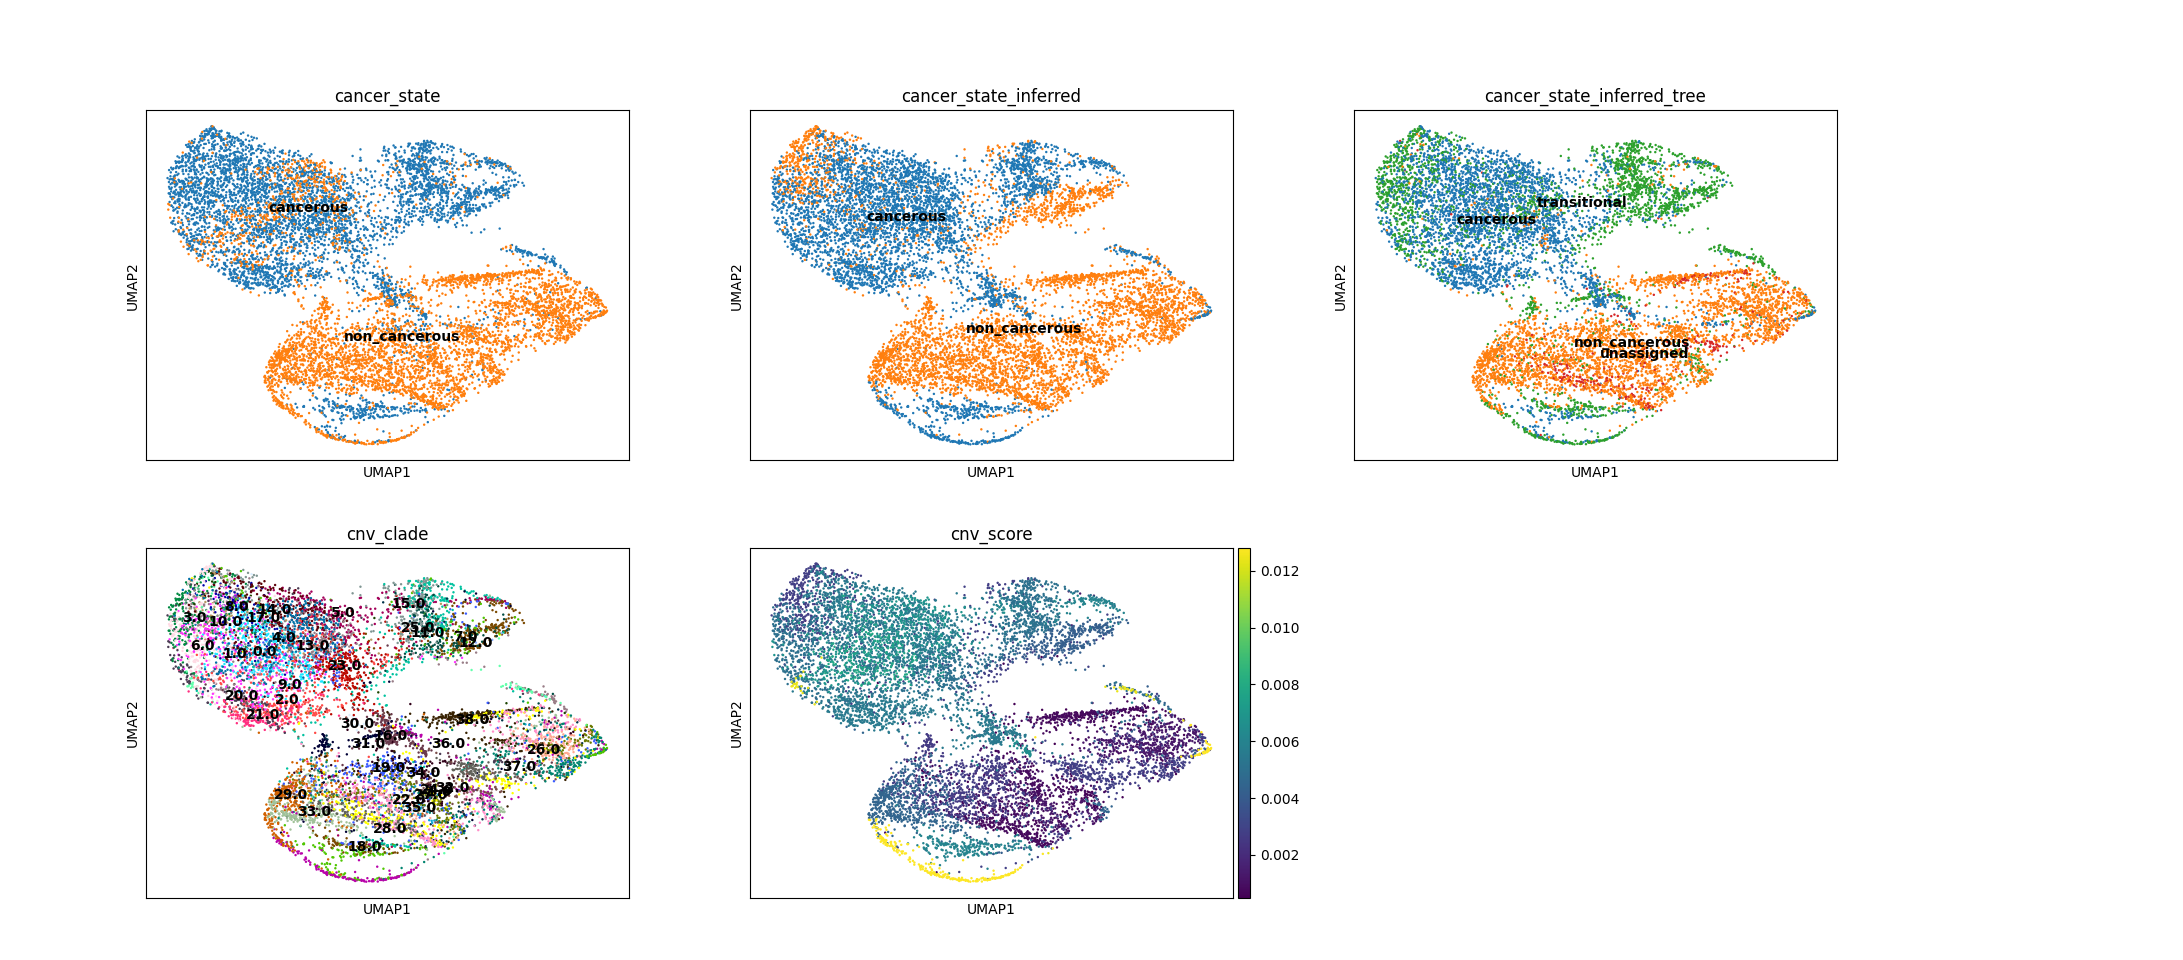
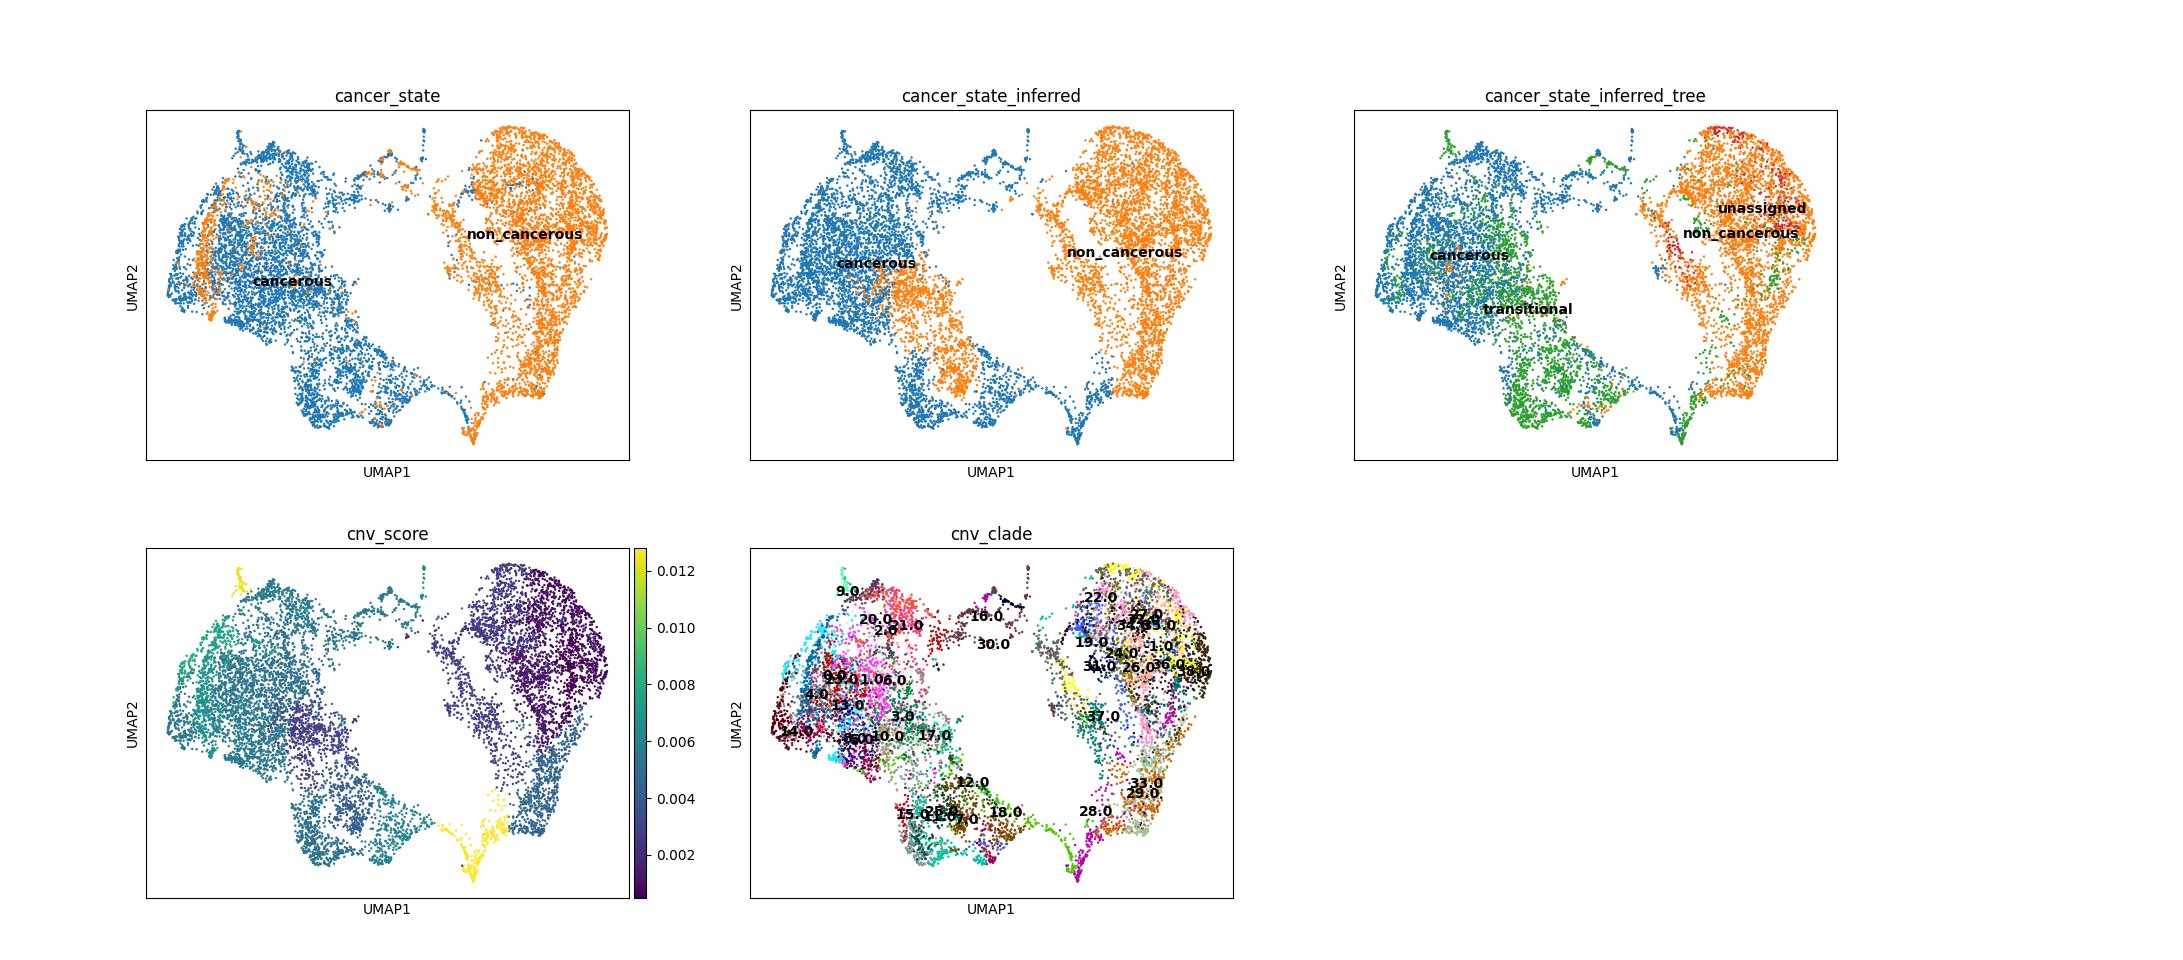
added more plots for run3 + DEG analysis on high cnv cluster in nc cells

diff --git a/analysis_scripts/OG_PDAC/Plotting.py b/analysis_scripts/OG_PDAC/Plotting.py
@@ -165,7 +165,7 @@ def plot_projection_and_DEGs(adata, layer):
     internal_adata = matrix_to_anndata(adata, layer)
 
     # normalize temp adata and store result in according field in internal adata 
-    if not hf.is_normalized(internal_adata) and layer != "X_cnv": # X_cnv is log normalized, so this check does not work (special case)
+    if not hf.is_normalized(internal_adata) and "_cnv" not in layer: # X_cnv is log normalized, so this check does not work (special case)
         vprint("normalizing data...")
         sc.pp.normalize_total(internal_adata, target_sum=1e4)
     else:
@@ -188,24 +188,34 @@ def plot_projection_and_DEGs(adata, layer):
     
     # quality checks before plotting
     vprint("quality checks before plotting...")
-    """if "cell_type" in colored_by and cell_type is not None:
-        colored_by.remove("cell_type")
-        vprint(f"{cell_type} cells are isolated, removing \"cell_type\" from colored_by list")"""
+    allowed = ( # list of all valid annotation options
+    list(internal_adata.obs.keys())
+    + list(internal_adata.var.get("gene_symbols", [])) # the [] option returns an empty list of the key does not exist
+    + list(internal_adata.var.get("gene_ids", []))
+    + list(internal_adata.var_names)
+    )
     for entry in colored_by:
-        if entry not in internal_adata.obs.keys():
+        if entry not in allowed: # color by option must either be an obs column or a gene (to color cells by expression level of that gene)
             colored_by.remove(entry)
-            vprint(f"{entry} is not in adata.obs, removing it from colored_by list")
+            vprint(f"{entry} is not in a valid annotation option, removing it from colored_by list")
 
+    # move used varname representation to internal_adata.var_names (UMAP cannot acces adata.var columns for coloring)
+    if any(entry in list(internal_adata.var.get("gene_symbols", [])) for entry in colored_by):
+        vprint("setting var_names to gene_symbols for projection plot coloring...")
+        internal_adata.var_names = list(internal_adata.var["gene_symbols"])
+    elif any(entry in list(internal_adata.var.get("gene_ids", [])) for entry in colored_by):
+        vprint("setting var_names to gene_ids for projection plot coloring...")
+        internal_adata.var_names = list(internal_adata.var["gene_ids"])
     
     # determine suitable number of columns for figure (rougly 1.5 times as many columns as rows)
     n_cols = np.round(np.sqrt(len(colored_by)*1.5)).astype(int) 
 
     # make sure annotatins with categories are colored by category and not continuous values
     for entry in colored_by:
-        if len(internal_adata.obs[entry].unique()) <= 20 or entry == "cnv_clade": # cnv clade yields continuous spectrum prbly bcs it has numpy floats
-            vprint(f"turning {entry} into categorical, unique values: {len(internal_adata.obs[entry].unique())}")
-            internal_adata.obs[entry] = pd.Categorical(internal_adata.obs[entry])
-
+        if entry in adata.obs.keys(): # if the entry is not in obs, it is a gene with continuous expression data, so surely not categorical
+            if len(internal_adata.obs[entry].unique()) <= 20 or entry == "cnv_clade": # cnv clade yields continuous spectrum prbly bcs it has numpy floats
+                vprint(f"turning {entry} into categorical. Unique values: {len(internal_adata.obs[entry].unique())}")
+                internal_adata.obs[entry] = pd.Categorical(internal_adata.obs[entry])
 
     # create a figure with one plot per color, save to temp, show if show is True
     if projection == "UMAP":
@@ -242,7 +252,8 @@ def plot_projection_and_DEGs(adata, layer):
         raise ValueError(f"projection {projection} is not supported")
 
     # for each grouping also run deg analysis
-    if "projctions+DEGs" in modules:
+    print(f"DEBUG modules: {modules}")
+    if "projections+DEGs" in modules:
         if internal_adata.shape[1] == adata.shape[1]: # proxy for varnames being copied over (can't run DEG if you don't know which genes are present)
             
             vprint("Preparping data for DEG analysis...")
@@ -777,13 +788,29 @@ def gene_expression_vs_obs(adata, x_axis: str, genes: list[str], layer):
     # plot each gene on one plot
     current_loc = [0, 0]
     for gene in genes:
-        print(f"current loc {current_loc}")
+        vprint(f"DEBUG: current loc in figure: {current_loc}")
 
         x = adata_sorted.obs[x_axis].to_list()
         if layer in adata.layers.keys():
-            y = adata_sorted[:, adata_sorted.var["gene_symbols"] == gene].layers[layer].flatten().tolist()
+            # check if gene in var_names or var["gene_symbols"] or var["gene_ids"]
+            if gene in adata_sorted.layers[layer].var["gene_symbols"]:
+                y = adata_sorted[:, adata_sorted.var["gene_symbols"] == gene].layers[layer].flatten().tolist()
+            elif gene in adata_sorted.var_names:
+                y = adata_sorted[:, adata_sorted.var_names == gene].layers[layer].flatten().tolist()
+            elif gene in adata_sorted.layers[layer].var["gene_ids"]:
+                y = adata_sorted[:, adata_sorted.var["gene_ids"] == gene].layers[layer].flatten().tolist()
+            else:
+                raise ValueError(f"Gene {gene} not found in layer adata.varnames, adata.var['gene_symbols'], or adata.var['gene_ids']. Please check your input data.")
         elif layer == "X":
-            y = adata_sorted[:, adata_sorted.var["gene_symbols"] == gene].X.flatten().tolist()
+            if gene in adata_sorted.var["gene_symbols"]:
+                y = adata_sorted[:, adata_sorted.var["gene_symbols"] == gene].X.flatten().tolist()
+            elif gene in adata_sorted.var_names:
+                y = adata_sorted[:, adata_sorted.var_names == gene].X.flatten().tolist()
+            elif gene in adata_sorted.var["gene_ids"]:
+                y = adata_sorted[:, adata_sorted.var["gene_ids"] == gene].X.flatten().tolist()
+            else:
+                raise ValueError(f"Gene {gene} not found in layer adata.varnames or adata.var['gene_symbols']. Please check your input data.")
+
         axes[current_loc[0], current_loc[1]].plot(x, y)
         axes[current_loc[0], current_loc[1]].set_title(f"{gene} expression vs {x_axis}")
 

diff --git a/analysis_scripts/OG_PDAC/Pipeline_executor.py b/analysis_scripts/OG_PDAC/Pipeline_executor.py
@@ -1099,8 +1099,10 @@ if __name__ == "__main__": # ensures this code runs only when this script is exe
         # infer_pseudotime(input_data_file=r"/proj/ml_grn/project_julian/Bachelor_thesis_pipeline/Data/output_storage/isolated/isolated_PDAC_ductal_cell_HVG_X_is_X_scANVI_corrected_cancer_state_inferred_tree_is_['transitional'].h5ad", origin_clade=28, flavor="monocle", save_output=True, input_prefix="isolated", smoothe_expression=True, layer="log1p")
         # cluster_and_plot(["gene_expression_vs_obs"], input_data_file=r"/proj/ml_grn/project_julian/Bachelor_thesis_pipeline/Data/output_storage/pseudotime/pseudotime_inferred_PDAC_ductal_cell_HVG_X_is_X_scANVI_corrected_cancer_state_inferred_tree_is_['transitional'].h5ad", x_axis="monocle_pseudotime", genes=["SAMD11", "PLEKHN1", "RNF223", "C1orf159"], show=True, save_output=True, layers=["log1p"])
 
-        cluster_and_plot(["projections"], input_data_file=r"/proj/ml_grn/project_julian/Bachelor_thesis_pipeline/Data/output_storage/pseudotime/pseudotime_inferred_PDAC_ductal_cell_HVG_X_is_X_scANVI_corrected_cancer_state_inferred_tree_is_['transitional'].h5ad", obs_annotations=["cancer_state", "cancer_state_inferred", "cancer_state_inferred_tree", "cnv_score", "cnv_clade", "monocle_pseudotime"], layers=["log1p"], projection="UMAP", save_output=True)
-        cluster_and_plot(["projections"], input_data_file=r"/proj/ml_grn/project_julian/Bachelor_thesis_pipeline/Data/output_storage/pseudotime/pseudotime_inferred_PDAC_ductal_cell_HVG_X_is_X_scANVI_corrected_cancer_state_inferred_tree_is_['transitional'].h5ad", obs_annotations=["cancer_state", "cancer_state_inferred", "cancer_state_inferred_tree", "cnv_score", "cnv_clade", "monocle_pseudotime"], layers=["log1p"], projection="PCA", save_output=True)
+        #cluster_and_plot(["projections"], input_data_file=r"/proj/ml_grn/project_julian/Bachelor_thesis_pipeline/Data/output_storage/pseudotime/pseudotime_inferred_PDAC_ductal_cell_HVG_X_is_X_scANVI_corrected_cancer_state_inferred_tree_is_['transitional'].h5ad", obs_annotations=["cancer_state", "cancer_state_inferred", "cancer_state_inferred_tree", "cnv_score", "cnv_clade", "monocle_pseudotime"], layers=["log1p"], projection="UMAP", save_output=True)
+        #cluster_and_plot(["projections"], input_data_file=r"/proj/ml_grn/project_julian/Bachelor_thesis_pipeline/Data/output_storage/pseudotime/pseudotime_inferred_PDAC_ductal_cell_HVG_X_is_X_scANVI_corrected_cancer_state_inferred_tree_is_['transitional'].h5ad", obs_annotations=["cancer_state", "cancer_state_inferred", "cancer_state_inferred_tree", "cnv_score", "cnv_clade", "monocle_pseudotime"], layers=["log1p"], projection="PCA", save_output=True)
+
+        
 
 
         purge_tempfiles()
